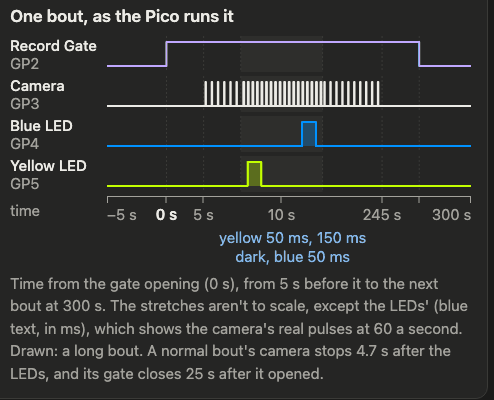
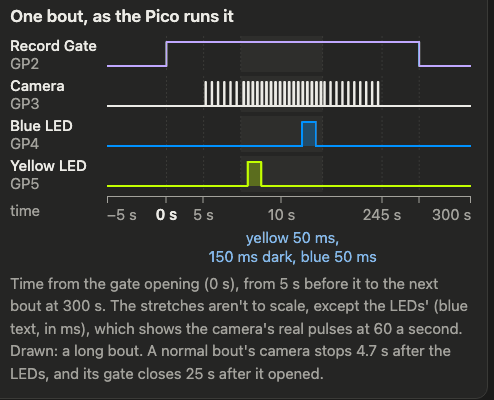
panel: the LEDs' stretch label keeps each part on one line ("150 ms dark")

Changed region(s): [[0.4251, 0.57, 0.7591, 0.66]]

diff --git a/campy/panelpage.py b/campy/panelpage.py
@@ -62,7 +62,7 @@ select{font:inherit;padding:.375em .5em;border-radius:8px;border:1px solid var(-
 .boutpic{display:grid;align-items:center;margin:.375rem 0;row-gap:.25rem}.boutpic .lab{padding-right:.625rem;line-height:1.2;font-size:.9375rem}
 .boutpic .lab b{font-weight:500;color:var(--text)}.boutpic svg{display:block;width:100%;height:2.25rem;grid-column:2/-1}
 .boutpic .dur{font-size:.9375rem;line-height:1.25;text-align:center;padding:0 2px;min-width:0;color:var(--muted)}
-.boutpic .zoom{color:var(--accent)}.boutpic .ledpw{color:var(--text);white-space:nowrap}
+.boutpic .zoom{color:var(--accent)}.boutpic .nw{white-space:nowrap}.boutpic .ledpw{color:var(--text);white-space:nowrap}
 .boutpic .axis{grid-column:2/-1;position:relative;height:1.9em;font-size:.9375rem;color:var(--muted);border-top:1px solid var(--muted)}
 .boutpic .axis i{position:absolute;top:0;width:1px;height:.4em;background:var(--muted);transform:translateX(-50%)}
 .boutpic .axis i:first-child{transform:none}.boutpic .axis i:nth-last-of-type(1){transform:translateX(-100%)}
@@ -516,7 +516,10 @@ function boutPicture(D){
     html += '<div class="lab"><b>'+esc(r.name)+'</b>'+(r.pin ? '<br><span class="muted">'+esc(r.pin)+'</span>' : '')+
       (pw ? '<br><span class="ledpw">'+(+pw.driver_mA)+'\u00a0mA \u00b7 '+(+pw.fiber_tip_uW)+'\u00a0\u00b5W</span>' : '')+'</div>' +
       svg((i >= 2 ? fill(spans, colour) : "") + line(wave(spans), colour)); });
-  const ledText = L.map((l, i) => (i && l.on - L[i-1].off > 1e-6 ? secs(l.on - L[i-1].off)+" dark, " : "")+l.name+" "+secs(l.off - l.on)).join(", ");
+  // The LEDs' stretch in words: "yellow 50 ms", "150 ms dark", "blue 50 ms", each kept on one line
+  const ledParts = []; L.forEach((l, i) => { if(i && l.on - L[i-1].off > 1e-6) ledParts.push(secs(l.on - L[i-1].off)+" dark");
+    ledParts.push(l.name+" "+secs(l.off - l.on)); });
+  const ledText = ledParts.join(", ");
   // The time axis, in seconds from the gate's opening: each stretch's edge (the LEDs' once, at their middle); labels
   // that would overlap are hidden once drawn (0 s and the two ends kept first)
   const ticks = [[-5, 0], [0, starts[1]], [b.camera[0], starts[2]], [L[0].on, starts[3] + weights[3]*50], [b.camera[1], starts[5]],
@@ -525,7 +528,7 @@ function boutPicture(D){
     '<span class="'+(i == 0 ? "first" : i == all.length-1 ? "last" : "")+(t == 0 ? " zero" : "")+'" style="left:'+(at/W*100).toFixed(2)+'%">'+
     (t < 0 ? "\u2212"+secs(-t) : t == 0 ? "0\u00a0s" : secs(t))+'</span>').join("");
   html += '<div class="lab muted">time</div><div class="axis">'+axis+'</div>' +
-    '<div class="dur zoom" style="grid-column:4 / 7">'+esc(ledText)+'</div>';
+    '<div class="dur zoom" style="grid-column:4 / 7">'+ledParts.map(t => '<span class="nw">'+esc(t)+'</span>').join(", ")+'</div>';
   const box = $("boutpic"); box.style.gridTemplateColumns = "auto " + weights.map(w => w+"fr").join(" "); box.innerHTML = html;
   const kept = [], marks = [...box.querySelectorAll(".axis span")];
   [...marks.filter(m => m.classList.contains("zero")), marks[0], marks[marks.length-1], ...marks].forEach(m => {
